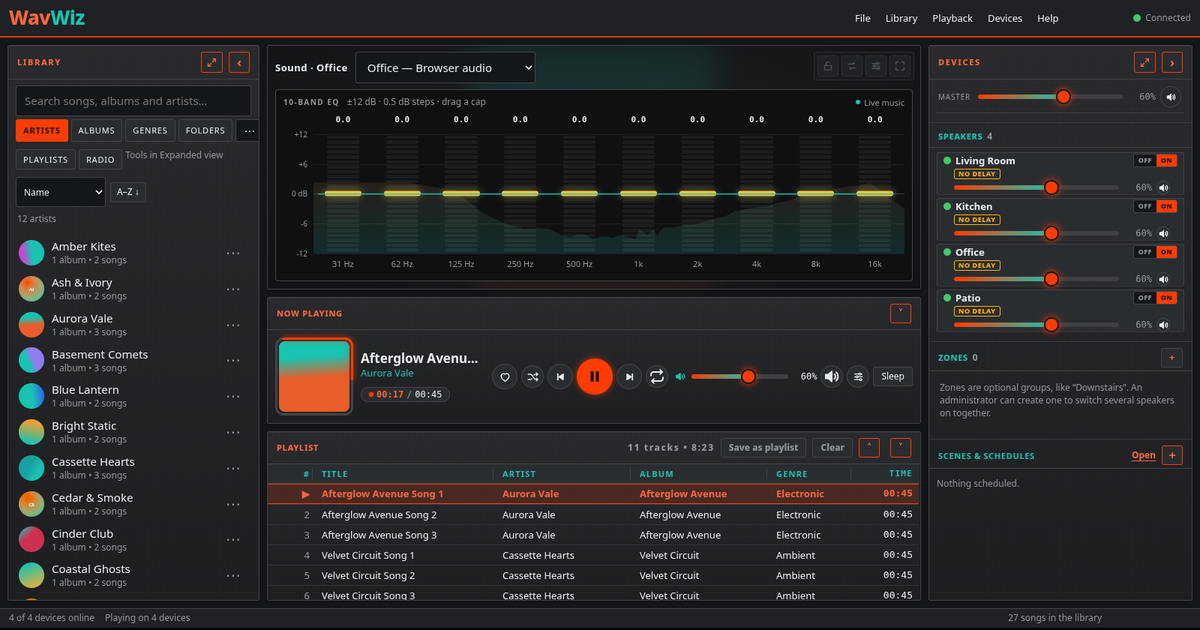
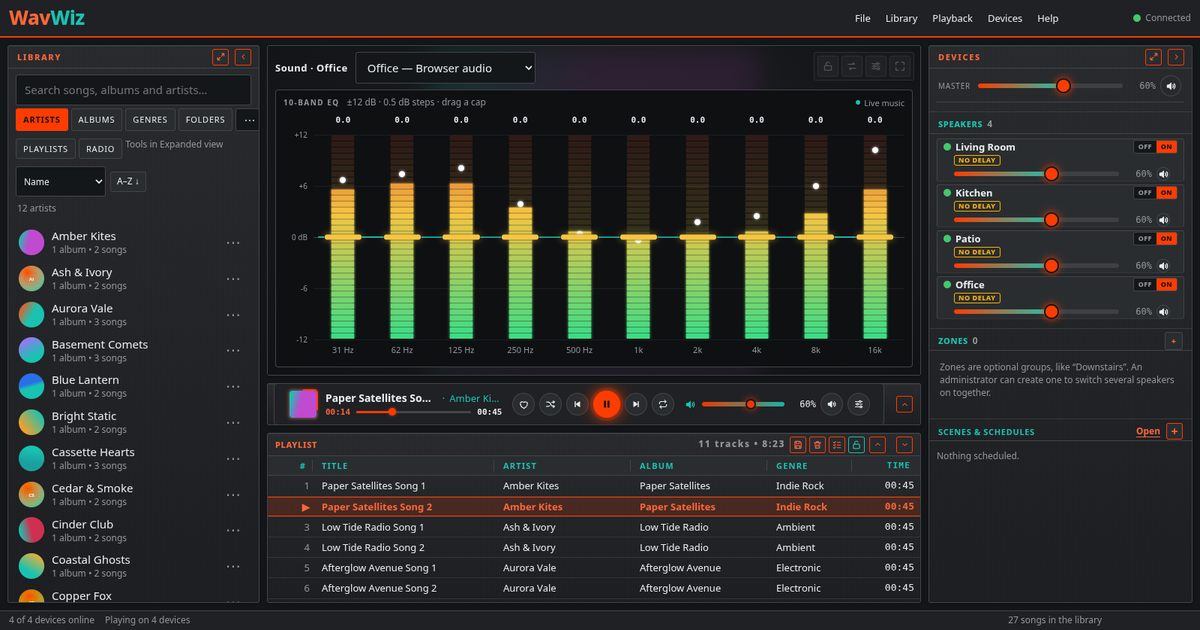
Site: 0.3.6 - softwareVersion, real 0.3.6 screenshots (main window, LED EQ, Spectrum curve EQ, social preview), copy for speaker profiles, LED EQ, hover menus, column picker, backup

diff --git a/index.html b/index.html
@@ -19,7 +19,7 @@
   <meta property="og:image:type" content="image/png">
   <meta property="og:image:width" content="1200">
   <meta property="og:image:height" content="630">
-  <meta property="og:image:alt" content="The WavWiz app window with Library, the Graphic EQ visualizer, Now Playing, Devices (master volume, Mute all, and Living Room, Kitchen, Patio and Office playing) and Playlist panels, under the WavWiz wordmark and the line Whole-home audio wizardry.">
+  <meta property="og:image:alt" content="The WavWiz app window: Library on the left, the live LED-bar EQ in the middle with a slim Now Playing bar below it, Devices on the right (master volume and Living Room, Kitchen, Patio and Office playing) and the Playlist.">
   <meta property="og:locale" content="en_US">
   <meta property="og:image:secure_url" content="https://wavwiz.com/assets/img/og-image.png">
   <meta name="twitter:card" content="summary_large_image">
@@ -78,7 +78,7 @@
         "softwareRequirements": "Microsoft Edge WebView2 Runtime for the player window (included with Windows 11 and current Windows 10)",
         "image": "https://wavwiz.com/assets/img/og-image.png",
         "screenshot": "https://wavwiz.com/assets/img/wavwiz-app-window.webp",
-        "softwareVersion": "0.3.5",
+        "softwareVersion": "0.3.6",
         "downloadUrl": "https://github.com/vdubbin74/WavWiz/releases/latest",
         "installUrl": "https://github.com/vdubbin74/WavWiz/releases/latest",
         "releaseNotes": "https://github.com/vdubbin74/WavWiz/releases/latest",
@@ -111,7 +111,9 @@
           "Mini player window",
           "Alarms with fade-in and snooze, sleep timer and crossfade",
           "Zones, scenes and schedules, and per-speaker max-volume lock",
-          "Backup and restore"
+          "Speaker profiles, including a profile per device in each scene",
+          "Playlist columns you can show, hide, resize, reorder and sort",
+          "Backup and restore, with Back up now and Undo restore"
         ],
         "sameAs": [
           "https://github.com/vdubbin74/WavWiz"
@@ -323,7 +325,7 @@
           <h2 id="app-title">One window runs the <span class="accent-t">whole house</span>.</h2>
         </header>
         <figure class="app-frame reveal">
-          <img src="assets/img/wavwiz-app-window.webp" srcset="assets/img/wavwiz-app-window-960.webp 960w, assets/img/wavwiz-app-window.webp 1600w" sizes="(max-width: 1200px) calc(100vw - 36px), 1152px" width="1600" height="837" loading="lazy" decoding="async" alt="The WavWiz app window. Library panel on the left, the 10-band EQ with live music in the middle and Now Playing below it, Devices on the right with master volume and Living Room, Kitchen, Office and Patio playing, and the Playlist across the bottom.">
+          <img src="assets/img/wavwiz-app-window.webp" srcset="assets/img/wavwiz-app-window-960.webp 960w, assets/img/wavwiz-app-window.webp 1600w" sizes="(max-width: 1200px) calc(100vw - 36px), 1152px" width="1600" height="837" loading="lazy" decoding="async" alt="The WavWiz app window. Library panel on the left, the 10-band LED-bar EQ moving with live music in the middle and a slim one-line Now Playing bar below it, Devices on the right with master volume and Living Room, Kitchen, Patio and Office playing, and the Playlist across the bottom.">
           <figcaption>The real WavWiz window: library, visualizer, Now Playing, devices and zones, and the shared playlist.</figcaption>
         </figure>
       </div>
@@ -363,7 +365,7 @@
           </li>
           <li class="card feature reveal">
             <div class="feature-ico ico-o"><svg viewBox="0 0 24 24" aria-hidden="true"><path d="M4 6h12M4 12h12M4 18h8" fill="none" stroke="currentColor" stroke-width="2" stroke-linecap="round"/><path d="M18 14v6l4-3-4-3Z" fill="currentColor"/></svg></div>
-            <div class="feature-text"><h3>One house, one queue</h3><p>Everyone can add songs from their own phone, and you can drag songs to reorder the playlist or drop them in from the Library. Group devices into zones, save scenes, and start them on a schedule.</p></div>
+            <div class="feature-text"><h3>One house, one queue</h3><p>Everyone can add songs from their own phone, and you can drag songs to reorder the playlist or drop them in from the Library. Group devices into zones, save scenes, and start them on a schedule, or run one from File &rsaquo; Run.</p></div>
           </li>
           <li class="card feature reveal">
             <div class="feature-ico ico-t"><svg viewBox="0 0 24 24" aria-hidden="true"><circle cx="12" cy="12" r="9" fill="none" stroke="currentColor" stroke-width="2"/><circle cx="12" cy="12" r="2.5" fill="none" stroke="currentColor" stroke-width="2"/></svg></div>
@@ -421,10 +423,10 @@
           <li><b>Alarms</b>Wake up to a playlist, song or station with a fade-in, on chosen days, with Snooze. <em>(beta)</em></li>
           <li><b>Sleep timer</b>15 to 90 minutes, end of song or end of album, then a gentle fade-out.</li>
           <li><b>Crossfade</b>0 to 12 seconds, off by default, and never inside an album.</li>
-          <li><b>Zones, scenes and caps</b>Group devices into zones, save scenes and run them on a schedule, and lock a max volume per device.</li>
-          <li><b>EQ view</b>The live 10-band EQ sits in the middle of Now Playing, one tap from the visualizer, with Lock EQ.</li>
-          <li><b>Themes</b>Ten themes, or set your own colors, with live previews.</li>
-          <li><b>Backup and restore</b>One file with your settings, playlists, scenes, alarms and EQ presets. No passwords inside.</li>
+          <li><b>Speaker profiles</b>Save a speaker's volume, cap, delay, balance, bass, treble, EQ and output as a profile, then pick a profile per device in each scene. Balance is applied by WavWiz Player.</li>
+          <li><b>LED EQ</b>The live 10-band EQ sits in the middle of Now Playing with LED bars that follow the real level of each band, one tap from the visualizer, with Lock EQ.</li>
+          <li><b>Hover menus</b>Sleep timer, New and Run (scenes, schedules, alarms) open as hover submenus, so one click does it. Playlist columns can be shown, hidden, resized, reordered and sorted.</li>
+          <li><b>Backup and restore</b>Import, export, Back up now and Restore from the File menu, with a summary first and Undo restore. No passwords inside.</li>
           <li><b>Speaker calibration</b>Measure each device's delay with a PC mic or your phone's mic, step by step. Phone-mic calibration on iPhone is still in testing.</li>
           <li><b>See every output</b>Each device shows what it plays through, like HDMI, Bluetooth or USB.</li>
         </ul>
@@ -441,11 +443,11 @@
         </header>
         <div class="eqviz-grid">
           <figure class="card eqviz-tile reveal">
-            <img src="assets/img/wavwiz-eq-led-bars.webp" width="748" height="338" loading="lazy" decoding="async" alt="The WavWiz 10-band EQ in the LED bars style: glowing bars with draggable caps, the 500 Hz band raised to +9 dB, over a faint live-music glow.">
+            <img src="assets/img/wavwiz-eq-led-bars.webp" width="748" height="338" loading="lazy" decoding="async" alt="The WavWiz 10-band EQ in the LED bars style: each band's bar moves with the real level of that frequency, with a draggable cap on every band.">
             <figcaption><span class="eqviz-kind eqviz-eq">EQ</span>LED bars</figcaption>
           </figure>
           <figure class="card eqviz-tile reveal">
-            <img src="assets/img/wavwiz-eq-spectrum-curve.webp" width="748" height="336" loading="lazy" decoding="async" alt="The WavWiz EQ in the Spectrum curve style: ten numbered nodes on the response line, node 5 raised, over the live-music fill.">
+            <img src="assets/img/wavwiz-eq-spectrum-curve.webp" width="748" height="338" loading="lazy" decoding="async" alt="The WavWiz EQ in the Spectrum curve style: ten numbered nodes on the response line, with the live LED level bars behind them.">
             <figcaption><span class="eqviz-kind eqviz-eq">EQ</span>Spectrum curve</figcaption>
           </figure>
           <figure class="card eqviz-tile reveal">
@@ -457,7 +459,7 @@
             <figcaption><span class="eqviz-kind eqviz-visualizer">Visualizer</span>Particle burst</figcaption>
           </figure>
         </div>
-        <p class="eqviz-note reveal">Real app captures. Three EQ styles and eight visualizers in all.</p>
+        <p class="eqviz-note reveal">Real app captures. Three EQ styles, all with live LED level bars, and eight visualizers in all.</p>
       </div>
     </section>
 
@@ -490,7 +492,7 @@
             <h3>Line up and play</h3>
             <p>Calibrate once with a PC mic or your phone so every device lines up, group devices into zones, and play on every device in sync. Having people over? Hand the queue to Jukebox mode.</p>
             <div class="step-media">
-              <img src="assets/img/wavwiz-app-window-960.webp" width="960" height="502" loading="lazy" decoding="async" alt="The WavWiz app window with the library, the 10-band EQ and Now Playing in the middle, and Devices on the right with Living Room, Kitchen, Office and Patio playing together.">
+              <img src="assets/img/wavwiz-app-window-960.webp" width="960" height="502" loading="lazy" decoding="async" alt="The WavWiz app window with the library, the 10-band LED-bar EQ and Now Playing in the middle, and Devices on the right with Living Room, Kitchen, Patio and Office playing together.">
             </div>
           </li>
         </ol>
